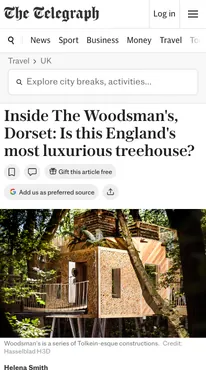
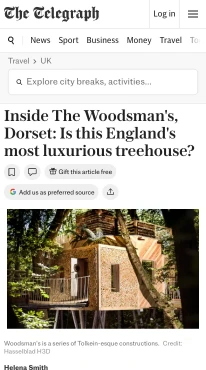
Three marks and a picture that sat wrong
The Telegraph's lead photograph ran the full width of its clipping while
everything else in the page sat in a column with a margin either side, so on a
card it read as a picture spilling off both edges and the rounded corners cut
into it. It is set back inside the column the article's own text uses, scaled
rather than cropped so none of the picture is lost, and the depth it gives up
becomes ordinary white page beneath it. The paper is behind a paywall, so this
is done to the cutting we hold rather than by taking it again.

Manchester is back on the Evening News mark. Dropping it was my way of making
the words readable at the height a single-line wordmark uses, but it left the
mark reading as a different paper, which is worse than small. The whole lockup
is cut again and carries a size of its own instead.

Time Out is drawn as thin outlined letters and read lighter than everything
beside it. Every mark is painted in the page's one ink, so weight is not a
thing that can be set for one of them -- size is the lever, and it takes the
same one the other stacked marks use.

diff --git a/public/press.html b/public/press.html
@@ -205,7 +205,7 @@
                       <article class="ch-press__card">
                         <a class="ch-press__clip" href="https://www.timeout.com/uk/things-to-do/amazing-uk-treehouses-you-can-actually-stay-in" target="_blank" rel="noopener" aria-label="Read &ldquo;The best treehouse stays in the UK – bookable on Airbnb&rdquo; on Time Out"><img src="images/press-shots/timeout-412.webp?v=20260923" srcset="images/press-shots/timeout-206.webp?v=20260923 206w, images/press-shots/timeout-412.webp?v=20260923 412w" sizes="(max-width: 767px) 45vw, 14rem" loading="lazy" decoding="async" alt=""></a>
                         <div class="ch-press__body">
-                          <span class="ch-press__logo" role="img" aria-label="Time Out" style="-webkit-mask-image:url('images/press/timeout.svg');mask-image:url('images/press/timeout.svg')"></span>
+                          <span class="ch-press__logo" role="img" aria-label="Time Out" style="--logo-scale:1.6;-webkit-mask-image:url('images/press/timeout.svg');mask-image:url('images/press/timeout.svg')"></span>
                           <p class="ch-press__year">2026 &middot; Oxfordshire</p>
                           <blockquote class="ch-press__quote"><p>&ldquo;the treehouse will awaken your inner child&rdquo;</p></blockquote>
                         </div>
@@ -265,7 +265,7 @@
                       <article class="ch-press__card">
                         <a class="ch-press__clip" href="https://www.manchestereveningnews.co.uk/news/property/inside-narnia-themed-treehouse-features-30398002" target="_blank" rel="noopener" aria-label="Read &ldquo;Inside Narnia-themed treehouse that features its own ‘magic’ wardrobe&rdquo; on Evening News"><img src="images/press-shots/men-412.webp?v=20260923" srcset="images/press-shots/men-206.webp?v=20260923 206w, images/press-shots/men-412.webp?v=20260923 412w" sizes="(max-width: 767px) 45vw, 14rem" loading="lazy" decoding="async" alt=""></a>
                         <div class="ch-press__body">
-                          <span class="ch-press__logo" role="img" aria-label="Evening News" style="--logo-scale:1.3;-webkit-mask-image:url('images/press/men.png');mask-image:url('images/press/men.png')"></span>
+                          <span class="ch-press__logo" role="img" aria-label="Evening News" style="--logo-scale:1.6;-webkit-mask-image:url('images/press/men.png');mask-image:url('images/press/men.png')"></span>
                           <p class="ch-press__year">2024 &middot; Oxfordshire</p>
                           <blockquote class="ch-press__quote"><p>&ldquo;complete with a magic wardrobe door that &#x27;transports&#x27; visitors straight into the countryside.&rdquo;</p></blockquote>
                         </div>
@@ -403,7 +403,7 @@
                     </li>
                     <li id="press-telegraph" data-location="dorset">
                       <article class="ch-press__card">
-                        <a class="ch-press__clip" href="https://www.telegraph.co.uk/travel/destinations/europe/united-kingdom/england/dorset/articles/inside-woodsmans-treehouse-hotel-dorset/" target="_blank" rel="noopener" aria-label="Read &ldquo;Inside The Woodsman&#x27;s, Dorset: is this England&#x27;s most luxurious treehouse?&rdquo; on The Telegraph"><img src="images/press-shots/telegraph-412.webp?v=20260922" srcset="images/press-shots/telegraph-206.webp?v=20260922 206w, images/press-shots/telegraph-412.webp?v=20260922 412w" sizes="(max-width: 767px) 45vw, 14rem" loading="lazy" decoding="async" alt=""></a>
+                        <a class="ch-press__clip" href="https://www.telegraph.co.uk/travel/destinations/europe/united-kingdom/england/dorset/articles/inside-woodsmans-treehouse-hotel-dorset/" target="_blank" rel="noopener" aria-label="Read &ldquo;Inside The Woodsman&#x27;s, Dorset: is this England&#x27;s most luxurious treehouse?&rdquo; on The Telegraph"><img src="images/press-shots/telegraph-412.webp?v=20260926" srcset="images/press-shots/telegraph-206.webp?v=20260926 206w, images/press-shots/telegraph-412.webp?v=20260926 412w" sizes="(max-width: 767px) 45vw, 14rem" loading="lazy" decoding="async" alt=""></a>
                         <div class="ch-press__body">
                           <span class="ch-press__logo" role="img" aria-label="The Telegraph" style="-webkit-mask-image:url('images/the-telegraph.png');mask-image:url('images/the-telegraph.png')"></span>
                           <p class="ch-press__year">2016 &middot; Dorset</p>

diff --git a/public/oxford-press.html b/public/oxford-press.html
@@ -256,7 +256,7 @@
                       <article class="ch-press__card">
                         <a class="ch-press__clip" href="https://www.timeout.com/uk/things-to-do/amazing-uk-treehouses-you-can-actually-stay-in" target="_blank" rel="noopener" aria-label="Read &ldquo;The best treehouse stays in the UK – bookable on Airbnb&rdquo; on Time Out"><img src="images/press-shots/timeout-412.webp?v=20260923" srcset="images/press-shots/timeout-206.webp?v=20260923 206w, images/press-shots/timeout-412.webp?v=20260923 412w" sizes="(max-width: 767px) 45vw, 14rem" loading="lazy" decoding="async" alt=""></a>
                         <div class="ch-press__body">
-                          <span class="ch-press__logo" role="img" aria-label="Time Out" style="-webkit-mask-image:url('images/press/timeout.svg');mask-image:url('images/press/timeout.svg')"></span>
+                          <span class="ch-press__logo" role="img" aria-label="Time Out" style="--logo-scale:1.6;-webkit-mask-image:url('images/press/timeout.svg');mask-image:url('images/press/timeout.svg')"></span>
                           <p class="ch-press__year">2026</p>
                           <blockquote class="ch-press__quote"><p>&ldquo;the treehouse will awaken your inner child&rdquo;</p></blockquote>
                         </div>
@@ -316,7 +316,7 @@
                       <article class="ch-press__card">
                         <a class="ch-press__clip" href="https://www.manchestereveningnews.co.uk/news/property/inside-narnia-themed-treehouse-features-30398002" target="_blank" rel="noopener" aria-label="Read &ldquo;Inside Narnia-themed treehouse that features its own ‘magic’ wardrobe&rdquo; on Evening News"><img src="images/press-shots/men-412.webp?v=20260923" srcset="images/press-shots/men-206.webp?v=20260923 206w, images/press-shots/men-412.webp?v=20260923 412w" sizes="(max-width: 767px) 45vw, 14rem" loading="lazy" decoding="async" alt=""></a>
                         <div class="ch-press__body">
-                          <span class="ch-press__logo" role="img" aria-label="Evening News" style="--logo-scale:1.3;-webkit-mask-image:url('images/press/men.png');mask-image:url('images/press/men.png')"></span>
+                          <span class="ch-press__logo" role="img" aria-label="Evening News" style="--logo-scale:1.6;-webkit-mask-image:url('images/press/men.png');mask-image:url('images/press/men.png')"></span>
                           <p class="ch-press__year">2024</p>
                           <blockquote class="ch-press__quote"><p>&ldquo;complete with a magic wardrobe door that &#x27;transports&#x27; visitors straight into the countryside.&rdquo;</p></blockquote>
                         </div>

diff --git a/public/dorset-press.html b/public/dorset-press.html
@@ -256,7 +256,7 @@
                     </li>
                     <li id="press-telegraph" data-location="dorset">
                       <article class="ch-press__card">
-                        <a class="ch-press__clip" href="https://www.telegraph.co.uk/travel/destinations/europe/united-kingdom/england/dorset/articles/inside-woodsmans-treehouse-hotel-dorset/" target="_blank" rel="noopener" aria-label="Read &ldquo;Inside The Woodsman&#x27;s, Dorset: is this England&#x27;s most luxurious treehouse?&rdquo; on The Telegraph"><img src="images/press-shots/telegraph-412.webp?v=20260922" srcset="images/press-shots/telegraph-206.webp?v=20260922 206w, images/press-shots/telegraph-412.webp?v=20260922 412w" sizes="(max-width: 767px) 45vw, 14rem" loading="lazy" decoding="async" alt=""></a>
+                        <a class="ch-press__clip" href="https://www.telegraph.co.uk/travel/destinations/europe/united-kingdom/england/dorset/articles/inside-woodsmans-treehouse-hotel-dorset/" target="_blank" rel="noopener" aria-label="Read &ldquo;Inside The Woodsman&#x27;s, Dorset: is this England&#x27;s most luxurious treehouse?&rdquo; on The Telegraph"><img src="images/press-shots/telegraph-412.webp?v=20260926" srcset="images/press-shots/telegraph-206.webp?v=20260926 206w, images/press-shots/telegraph-412.webp?v=20260926 412w" sizes="(max-width: 767px) 45vw, 14rem" loading="lazy" decoding="async" alt=""></a>
                         <div class="ch-press__body">
                           <span class="ch-press__logo" role="img" aria-label="The Telegraph" style="-webkit-mask-image:url('images/the-telegraph.png');mask-image:url('images/the-telegraph.png')"></span>
                           <p class="ch-press__year">2016</p>
